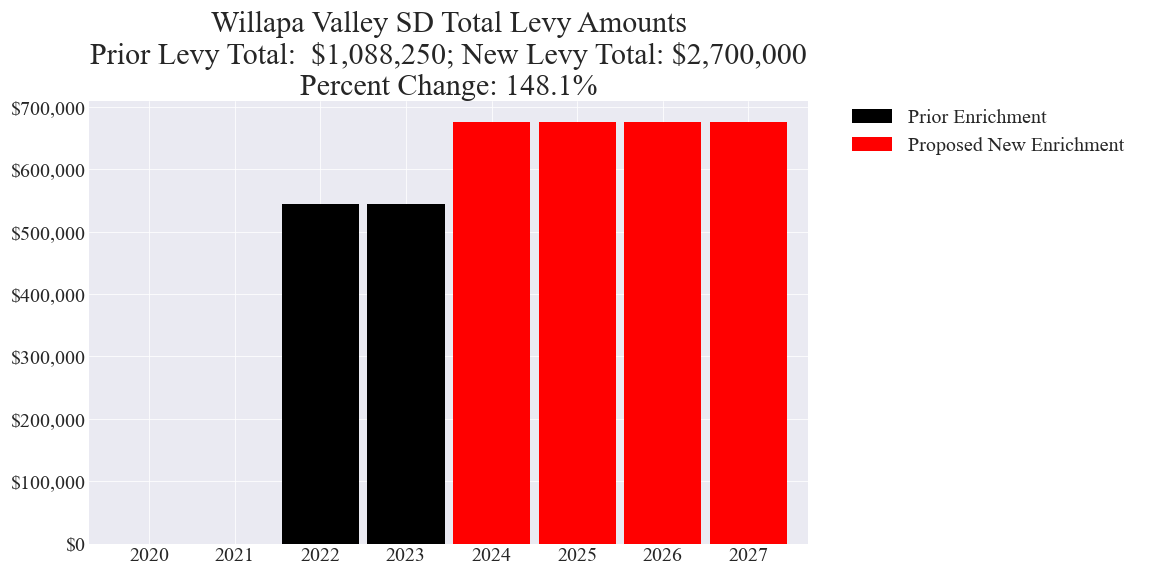
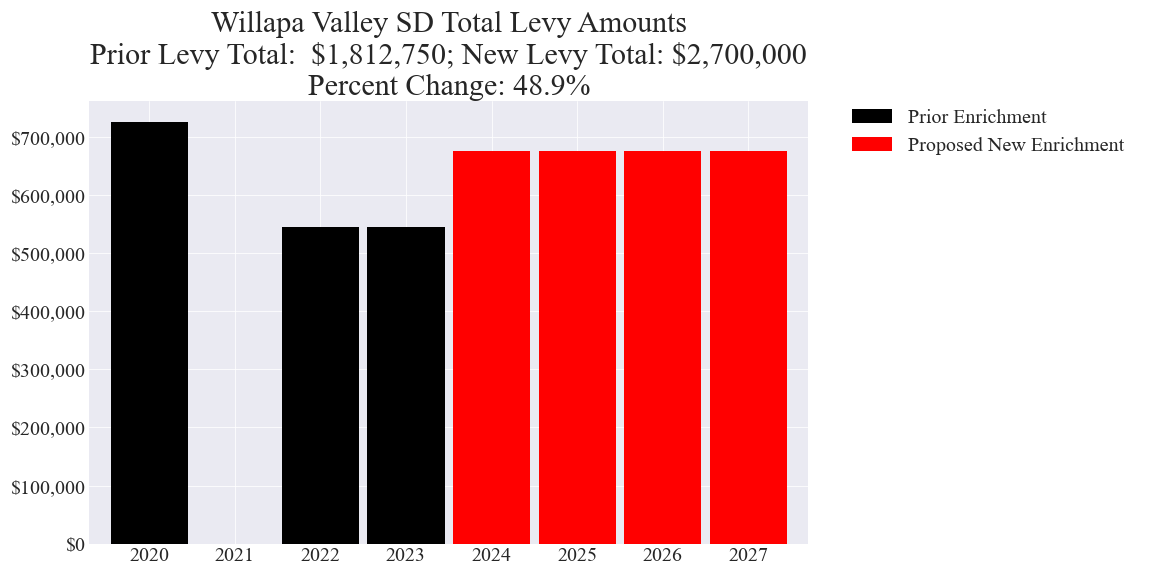
Updated Willapa Valley

Changed region(s): [[0.0, 0.1562, 0.1875, 0.9688], [0.25, 0.0625, 0.6875, 0.2812], [0.2188, 0.3438, 0.4062, 0.4062]]

diff --git a/_includes/cost_estimates/20230425/WillapaValley_20230425_Enhanced.html b/_includes/cost_estimates/20230425/WillapaValley_20230425_Enhanced.html
@@ -19,7 +19,7 @@
 	totalLevyCostParcel = sampleParcelPOF * totalLevyCost;
 	levyYears = 4;
 	averageTotalLevyCostParcel = totalLevyCostParcel / levyYears;
-	totalLevyPriorCost = 1088250;
+	totalLevyPriorCost = 1812750;
 	totalLevyPriorCostParcel = sampleParcelPOF * totalLevyPriorCost;
 	averageTotalLevyPriorCostParcel = totalLevyPriorCostParcel / levyYears;
 	// POF Annual Change Percent
@@ -37,7 +37,7 @@
 		data.addColumn('number', 'New Levy Amount');
 
 		data.addRows([
-			['2020', 0, 0],
+			['2020', 724500, 0],
 			['2021', 0, 0],
 			['2022', 544125, 0],
 			['2023', 544125, 0],

diff --git a/_includes/cost_estimates/20230425/Centralia_20230425_Enhanced.html b/_includes/cost_estimates/20230425/Centralia_20230425_Enhanced.html
@@ -10,7 +10,7 @@
 	var chart;
 	var dataParcel;
 	
-	totalLevyAV = 4097647807;
+	totalLevyAV = 4131948094;
 	sampleParcelAV = 350000;
 	sampleParcelAVMin = 100000;
 	sampleParcelAVMax = 2000000;
